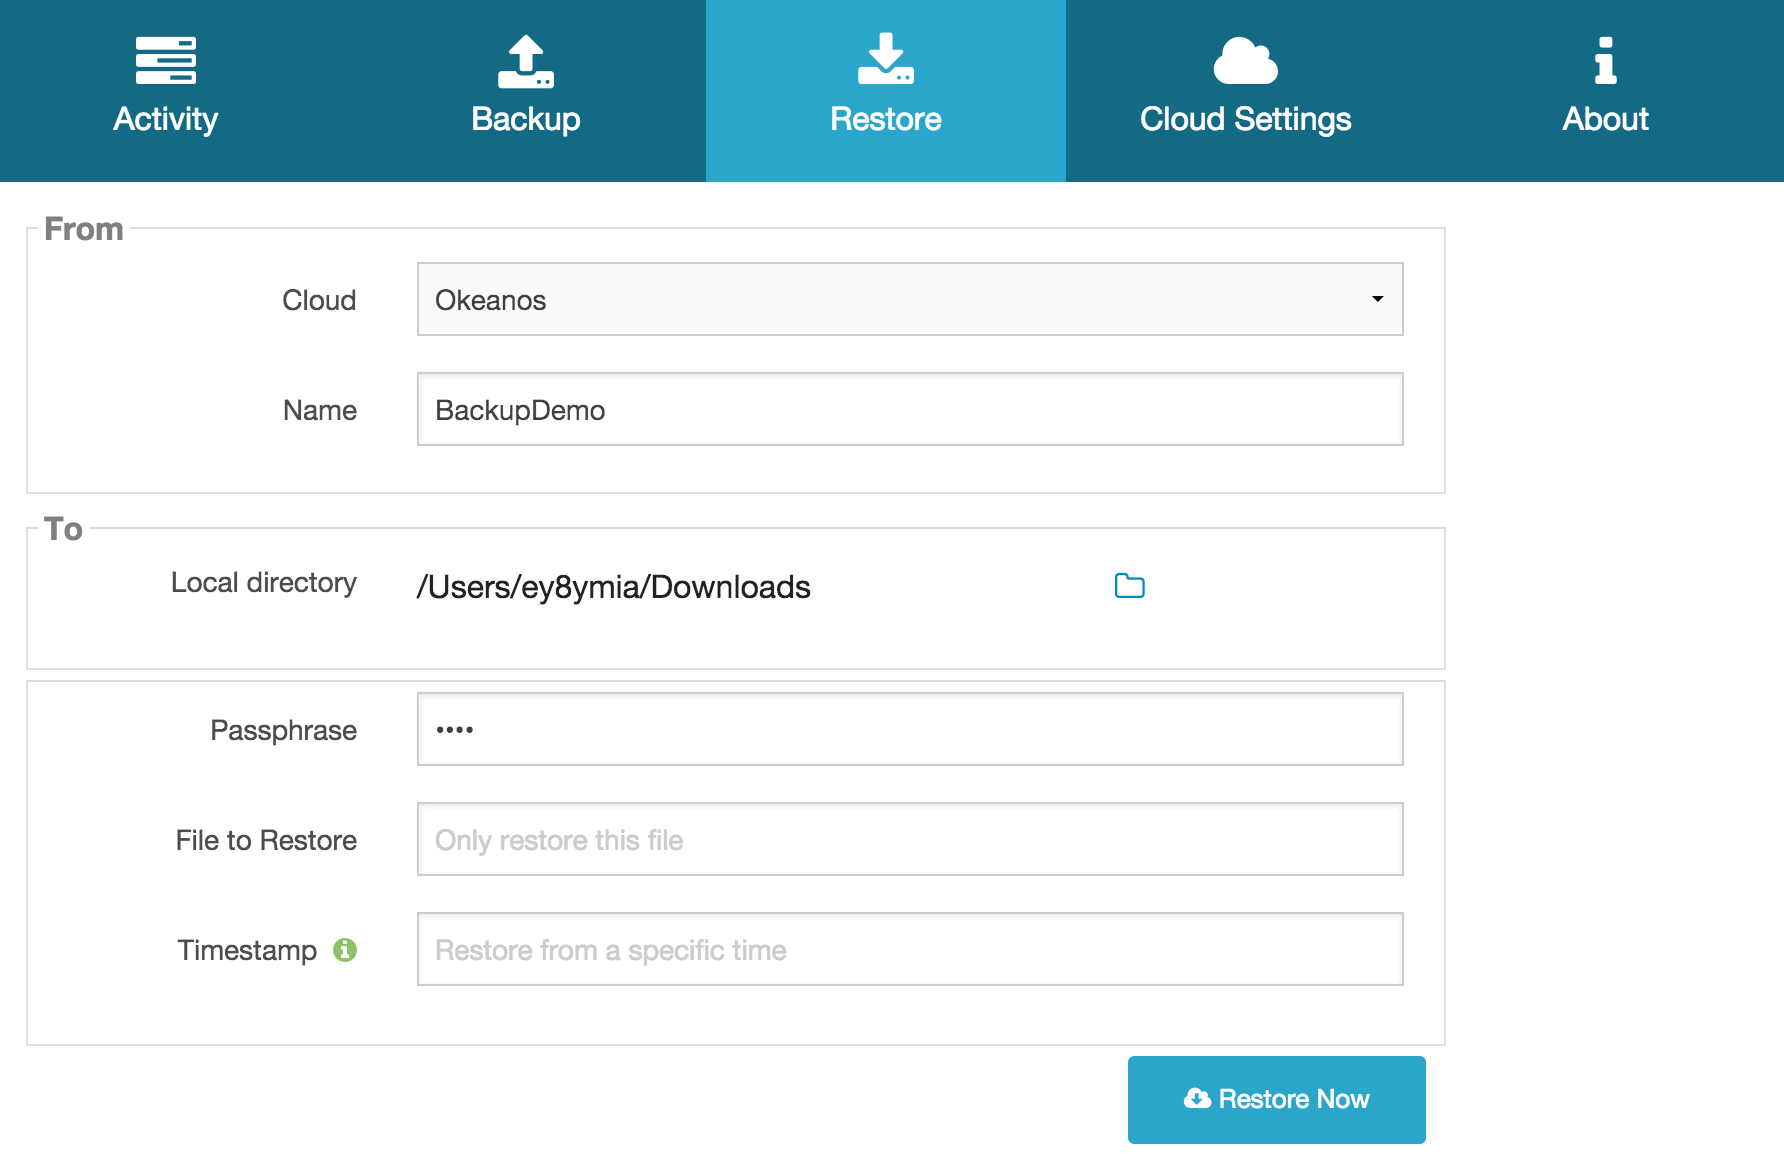
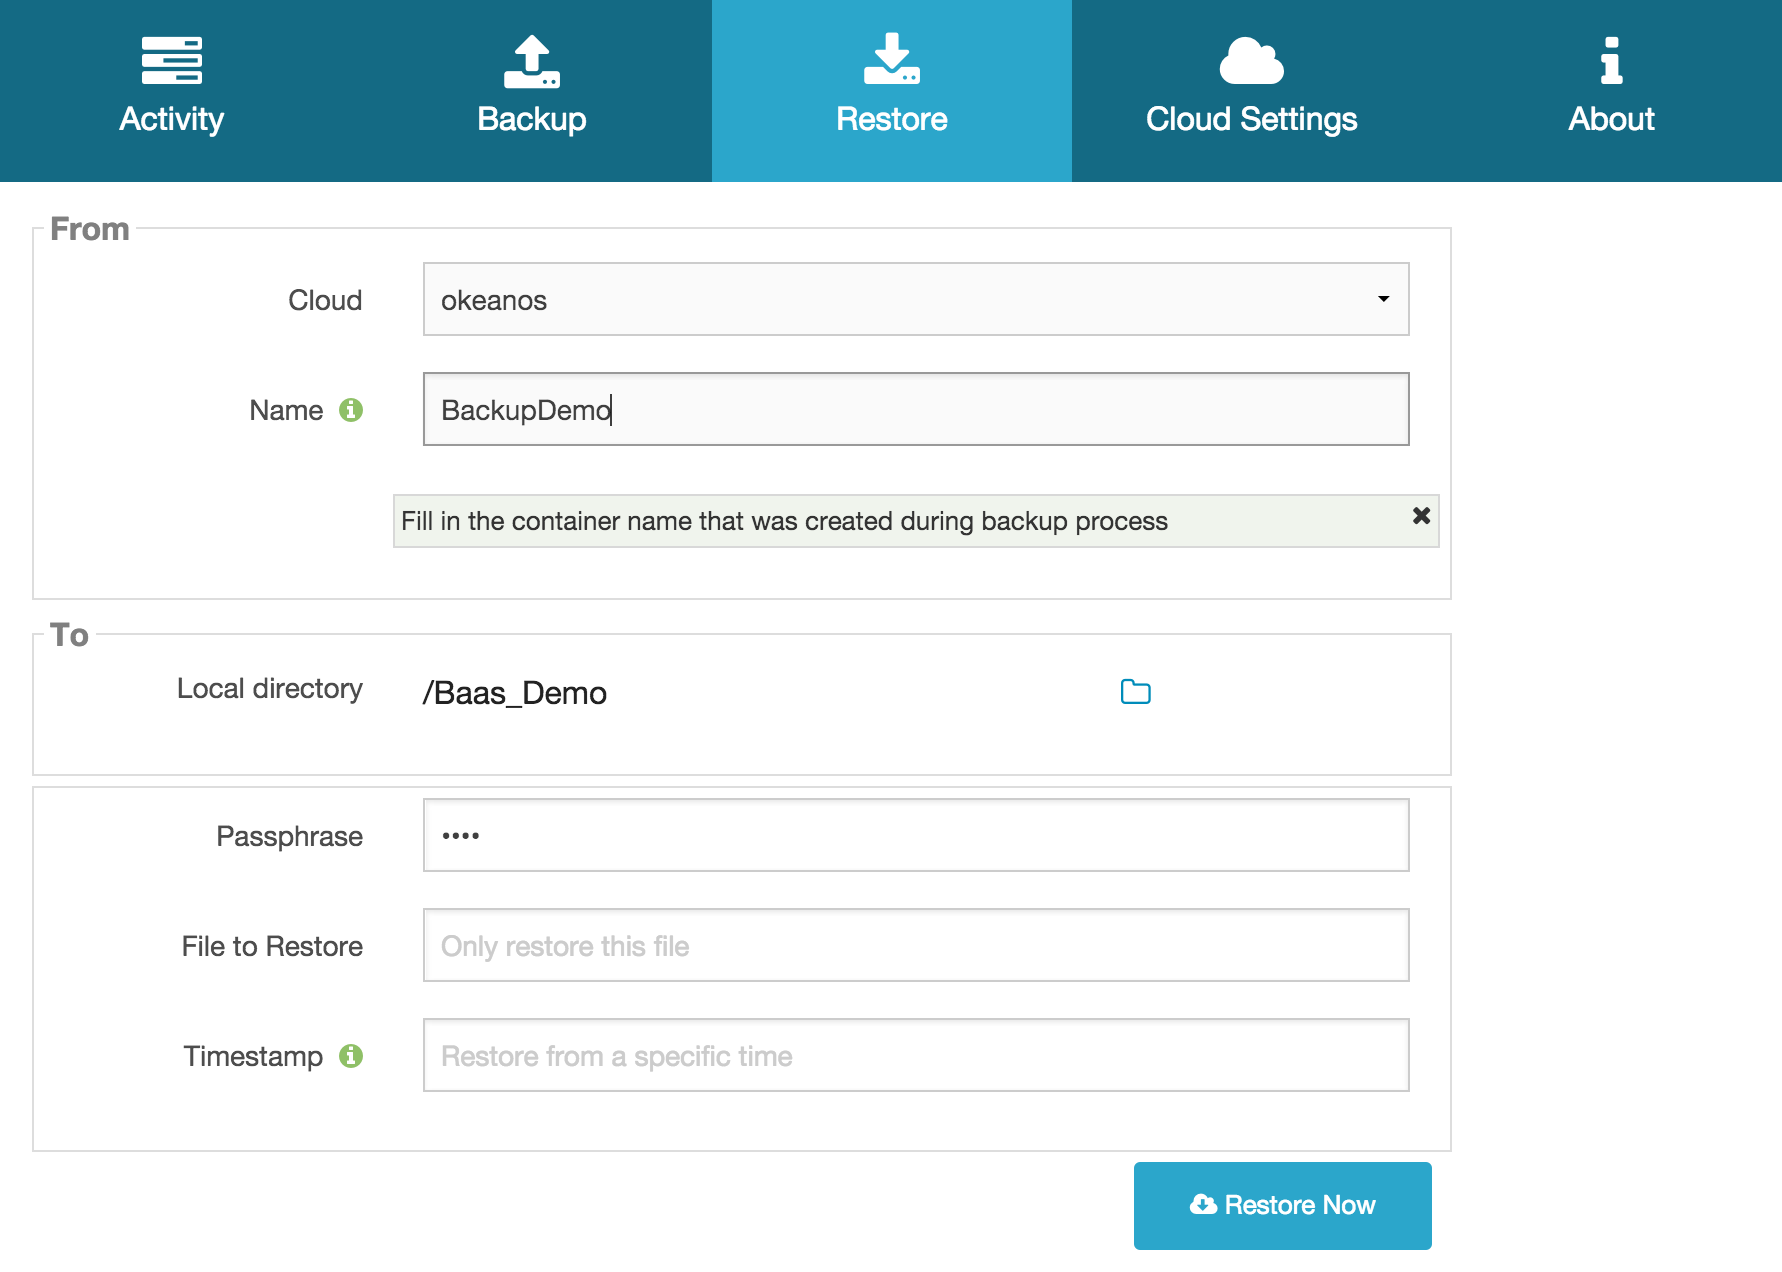
Further explain 'Name' field in Restore tab

diff --git a/baas/restore.html b/baas/restore.html
@@ -92,7 +92,10 @@ along with this program.  If not, see <http://www.gnu.org/licenses/>.
                     <div class="small-3 columns">
                         <label id="res_backup_name_label"
                             for="res-backup-name" class="right inline">
-                            Name
+                            Name&nbsp;
+                            <i class="fa fa-info-circle green-info"
+                                onclick="$('#name-info').slideDown();">
+                            </i>
                     </label>
                     </div>
                     <div class="small-9 columns error"
@@ -101,6 +104,14 @@ along with this program.  If not, see <http://www.gnu.org/licenses/>.
                         placeholder="Backup[A-Za-z0-9-_]"
                         onchange="check_res_backup_name();">
                         <small class="error"></small>
+                    </div>
+                    <div class="small-3 columns">&nbsp;</div>
+                    <div class="small-9 columns hide info-text panel"
+                        id="name-info">
+                        <i class="fa fa-times right"
+                            onclick="$('#name-info').slideUp();"></i>
+                            Fill in the container name that was created
+                            during backup process
                     </div>
                 </div>
             </fieldset>
